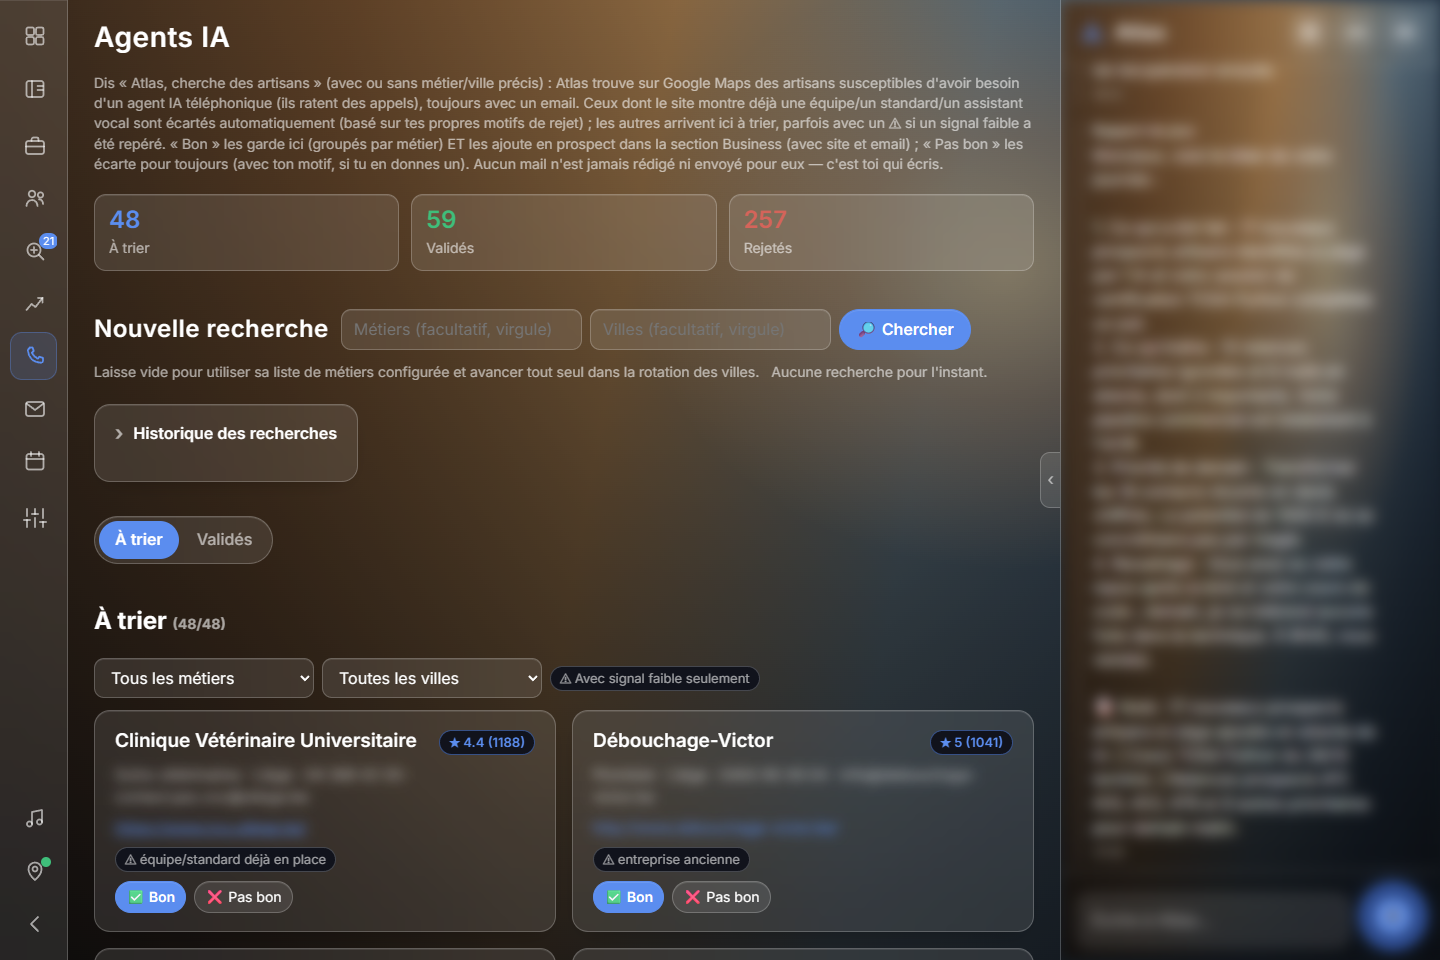
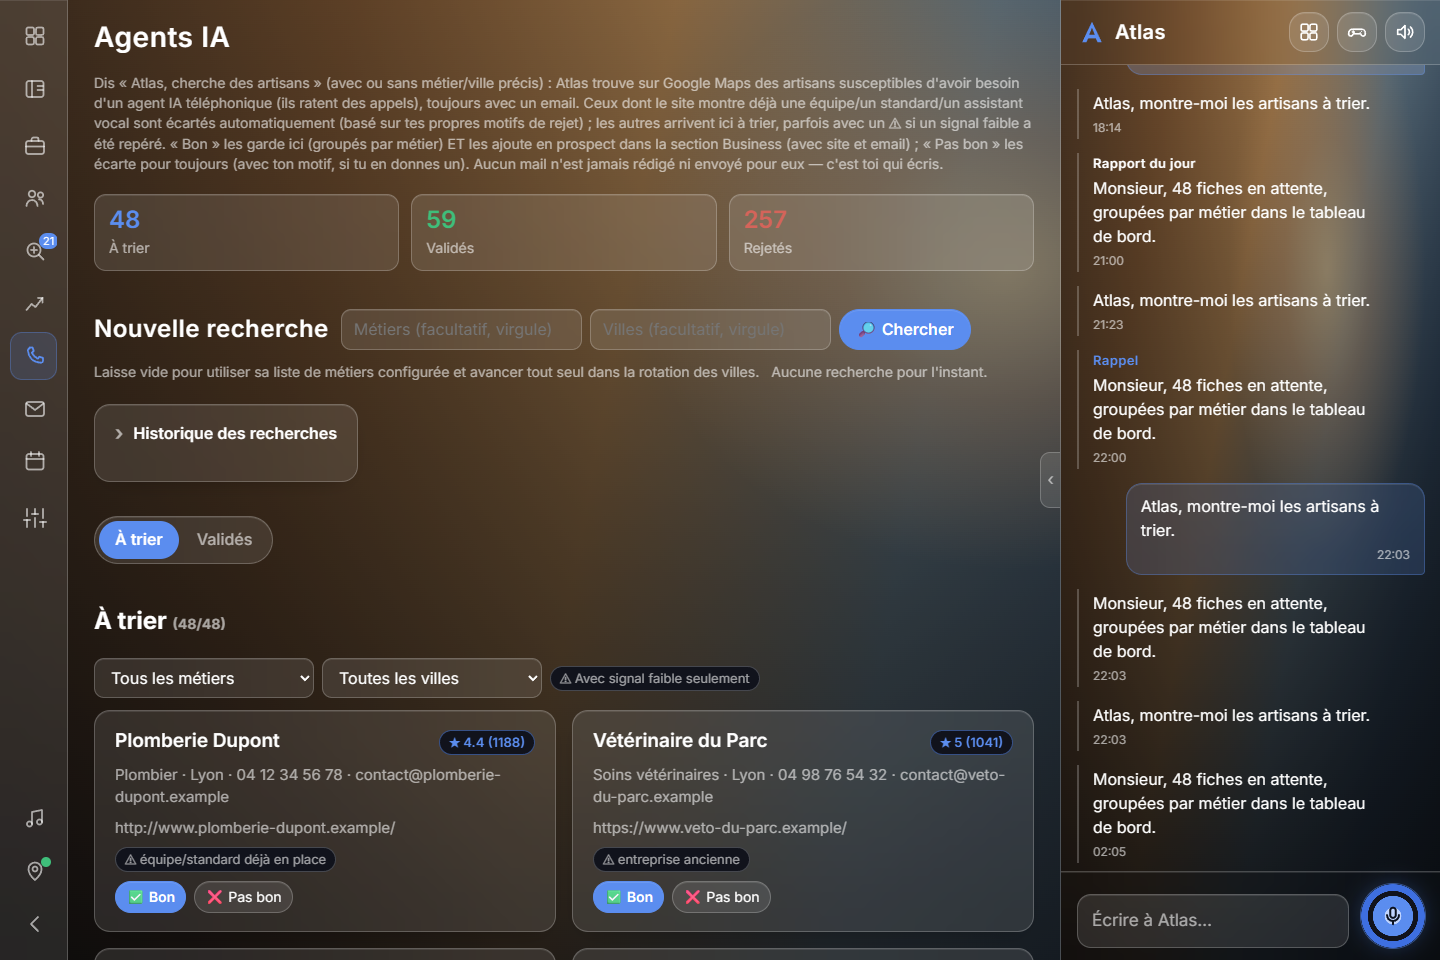
Replace blurred screenshots with fictional-data versions
Same views, but with placeholder business names/contacts and a
fictional chat conversation instead of blur, so the screenshots are
readable while still showing no real data.

diff --git a/README.md b/README.md
@@ -4,8 +4,8 @@ Atlas is an always-on personal assistant I built and run daily: a Telegram bot, 
 
 **Atlas was originally called Jarvis; internal file names kept the old name.**
 
-![Dashboard overview — personal data and the chat panel content are blurred for this screenshot](docs/screenshots/overview.png)
-![Agents IA — AI-sourced lead triage; third-party contact details are blurred for this screenshot](docs/screenshots/agents-ia.png)
+![Dashboard overview — chat panel and card content use fictional placeholder data](docs/screenshots/overview.png)
+![Agents IA — AI-sourced lead triage; business names and contact details are fictional placeholder data](docs/screenshots/agents-ia.png)
 
 This repo is a **curated, read-only code export for review purposes** — not a toy demo and not a packaged installer. Real secrets, personal data (prospects, journal, calendar), and runtime-only files (voice biometrics, Telegram session, trading login state) are excluded; see [What's excluded](#whats-excluded--why) below. It isn't meant to be cloned and run as-is: it's wired into my own live Telegram bot, a running MetaTrader terminal, and my own Zoho/Google/GitHub accounts. What's here is the real logic that runs every day, for reading.
 
